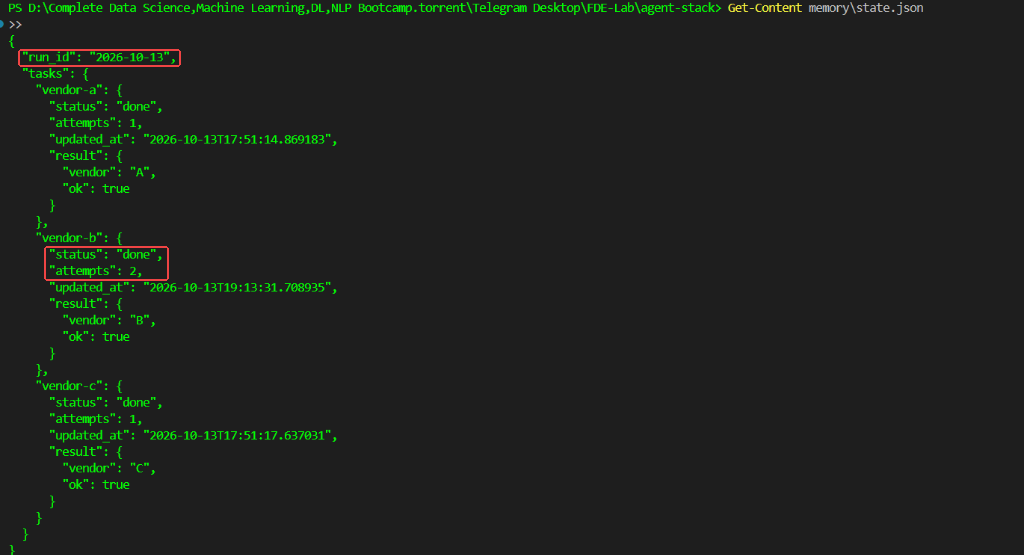
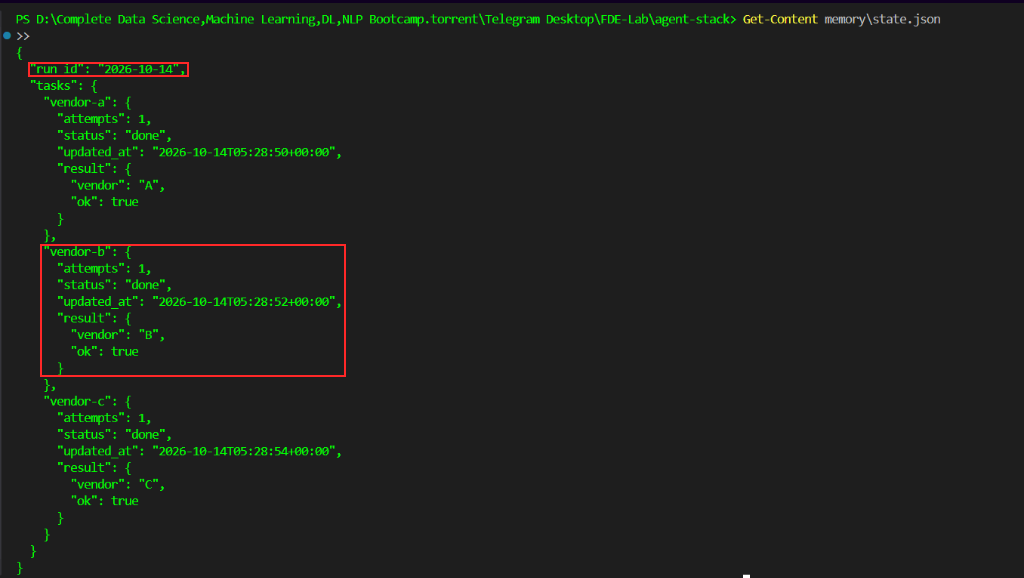
docs: embed final state.json proof and update progress state

diff --git a/LAB_PROGRESS_STATE.md b/LAB_PROGRESS_STATE.md
@@ -30,7 +30,7 @@ All code tested, validated, and embedded into [L3-Composing the Agent Stack- Orc
    - Highlights: Red boxes on exit code 137 with disk state `{ "vendor-a": "done" }` and `Skipping vendor-a (already done in run)`.
 4. **Atomic State Persistence:**
    - Asset: `assets/l3_state_json_proof.png`
-   - Verified: `memory/state.json` contains scoped `run_id` and recorded `attempts: 2` for `vendor-b`.
+   - Verified: `memory/state.json` contains scoped `run_id` ("2026-10-14") and completed (`"done"`) status for all vendors following crash recovery.
    - Highlights: Red boxes on `run_id` and `vendor-b` state.
 
 ---

diff --git a/L3-Composing the Agent Stack- Orchestrator-Tools- Memory and Queue.md b/L3-Composing the Agent Stack- Orchestrator-Tools- Memory and Queue.md
@@ -368,7 +368,7 @@ Between test runs, inspect the final persisted atomic state:
 cat memory/state.json
 ```
 
-The resulting state on disk confirms the scoped `run_id`, successful completion of all vendors, and the recorded `attempts: 2` for `vendor-b`:
+The resulting state on disk confirms the scoped `run_id` ("2026-10-14") and the successful completion (`"done"`) of all vendors following the crash and resume cycle:
 
 ![Final Persisted State Proof](./assets/l3_state_json_proof.png)
 
